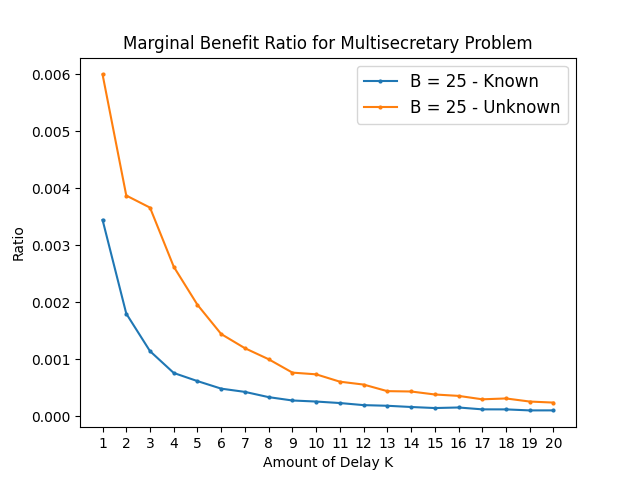
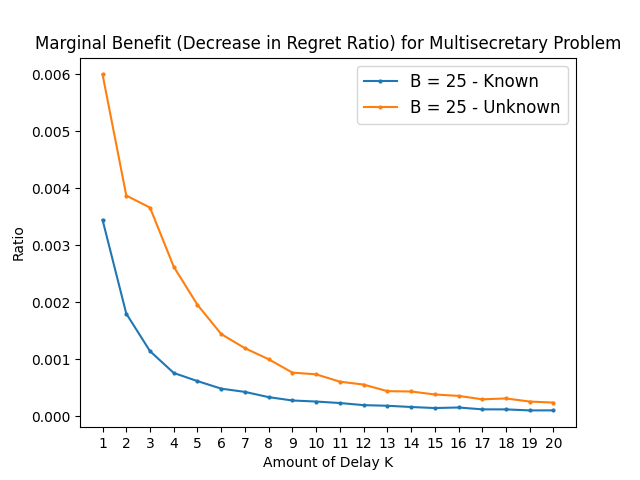
updates

Changed region(s): [[0.0312, 0.0625, 0.9688, 0.125]]

diff --git a/secretary_problem/result_plot.py b/secretary_problem/result_plot.py
@@ -29,8 +29,8 @@ def data(instance):
 if __name__ == '__main__':
     # inv_num = 25, 50, 75
     # flag = "delay", "batch", "unknown"
-    inv_num = 25
-    flag = "batch"
+    inv_num = 75
+    flag = "unknown"
 
     if flag == "delay":
         instance1 = np.load('./result_secretary/setting25delay.npy', allow_pickle=True)
@@ -92,7 +92,7 @@ if __name__ == '__main__':
             diff_unknown[K] = unknown_ratio3[K] - unknown_ratio3[K + 1]
 
         delay_list = delay_list3[2:len(delay_list3)]
-        plt.title("Marginal Benefit Ratio for Multisecretary Problem")
+        plt.title("Marginal Benefit (Decrease in Regret Ratio) for Multisecretary Problem")
         plt.xticks(delay_list)
         plt.xlabel("Amount of Delay K")
         plt.ylabel("Ratio")
